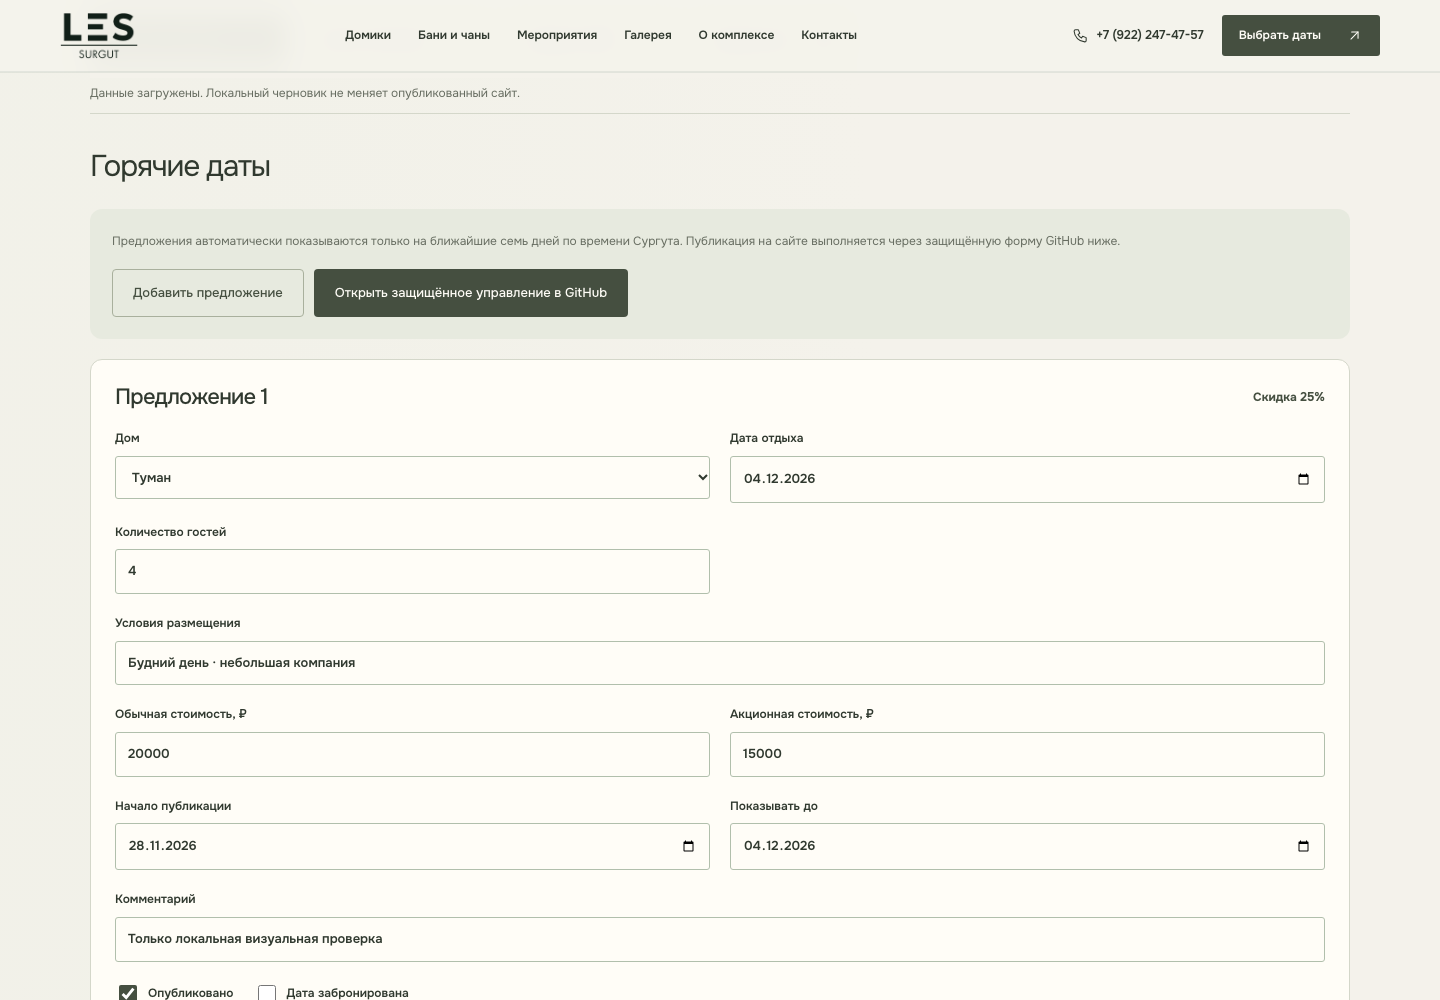
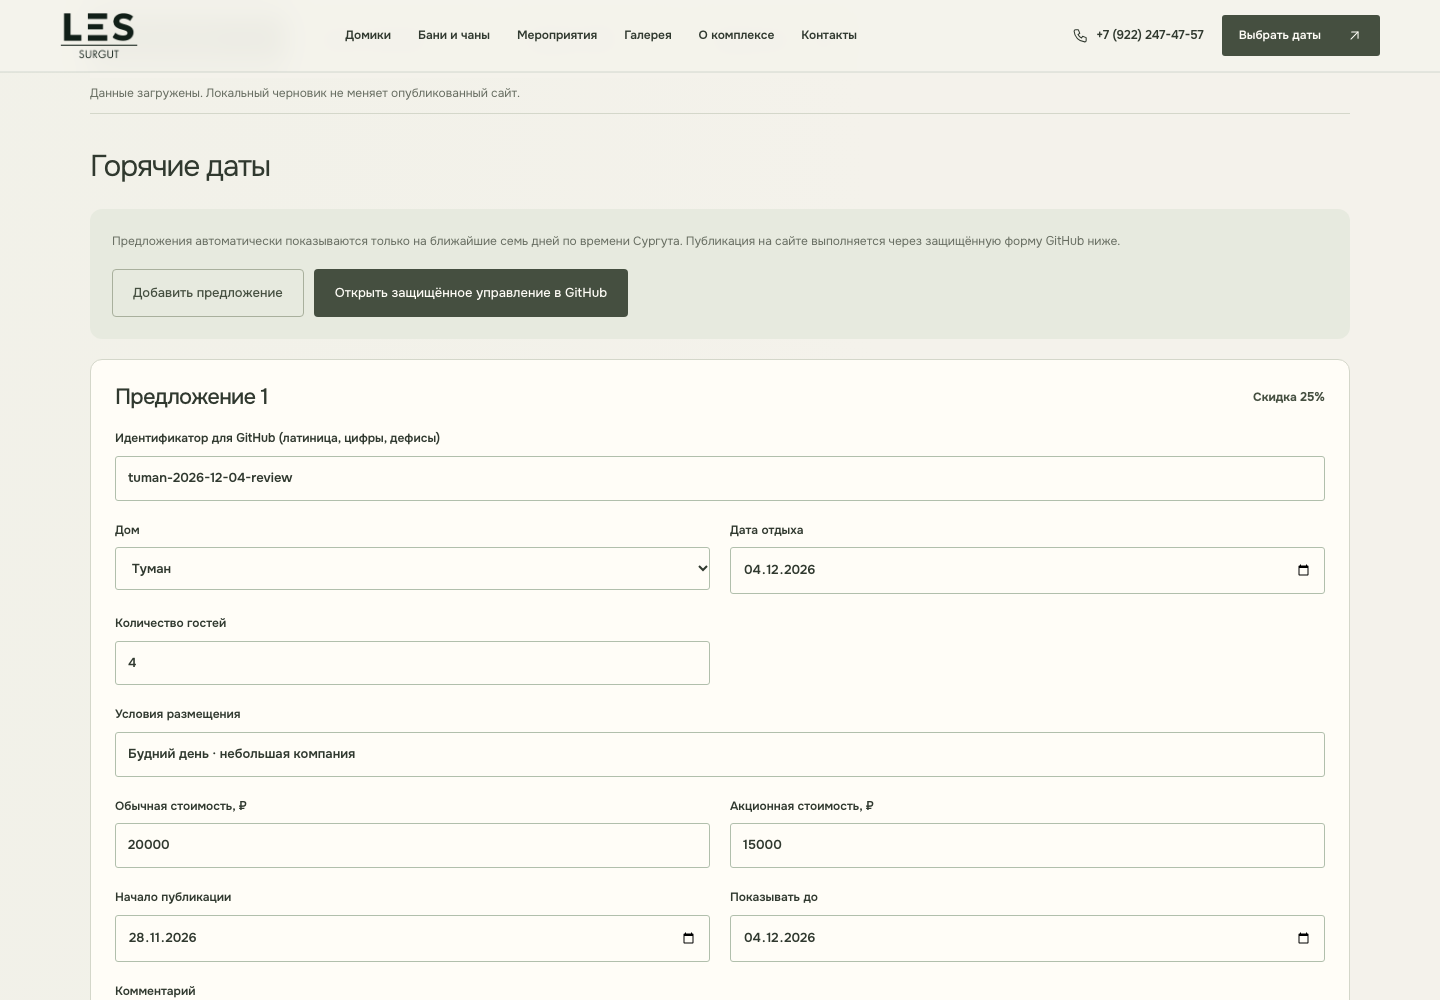
Polish hot dates management review

diff --git a/src/editor.js b/src/editor.js
@@ -34,6 +34,7 @@ function render(){
    const card=make('article',null,'editor-hot-card wide'),heading=make('div',null,'editor-hot-card-heading'),title=make('h3',`Предложение ${index+1}`),discount=make('strong');heading.append(title,discount);card.append(heading);
    const fields=make('div',null,'editor-grid');card.append(fields);
    const input=(labelText,key,type='text',wide=false)=>{const label=make('label',labelText,wide?'wide':'');const control=make('input');control.type=type;control.value=offer[key]??'';control.addEventListener('input',()=>{offer[key]=type==='number'?(control.value===''?null:Number(control.value)):control.value;discount.textContent=hotDiscount(offer)===null?'Проверьте цены':`Скидка ${hotDiscount(offer)}%`;syncJSON()});label.append(control);fields.append(label);return control};
+   input('Идентификатор для GitHub (латиница, цифры, дефисы)','id','text',true);
    const houseLabel=make('label','Дом'),house=make('select');for(const item of data.houses){const option=make('option',item.name);option.value=item.slug;option.selected=item.slug===offer.house;house.append(option)}house.addEventListener('change',()=>{offer.house=house.value;syncJSON()});houseLabel.append(house);fields.append(houseLabel);
    input('Дата отдыха','date','date');input('Количество гостей','guests','number');input('Условия размещения','terms','text',true);input('Обычная стоимость, ₽','regularPrice','number');input('Акционная стоимость, ₽','salePrice','number');input('Начало публикации','publishFrom','date');input('Показывать до','expiresAt','date');input('Комментарий','comment','text',true);
    const flags=make('div',null,'editor-hot-flags wide');for(const [key,labelText] of [['active','Опубликовано'],['booked','Дата забронирована']]){const label=make('label'),control=make('input');control.type='checkbox';control.checked=offer[key]===true;control.addEventListener('change',()=>{offer[key]=control.checked;syncJSON()});label.append(control,document.createTextNode(labelText));flags.append(label)}fields.append(flags);

diff --git a/docs/final-launch-report-2026-11-28.md b/docs/final-launch-report-2026-11-28.md
@@ -93,11 +93,11 @@ Chrome проверен программно на ширинах 320, 375, 390, 
 
 Локальная проверка Chrome при ширине 1440 px:
 
-- DOMContentLoaded: 274 мс;
-- load: 368 мс;
-- 51 сетевой запрос;
+- DOMContentLoaded: 116 мс;
+- load: 292 мс;
+- 66 сетевых запросов;
 - 678 КБ передано до завершения начальной загрузки;
-- запрошено 6 полноразмерных и 31 адаптивное WebP, остальные галерейные изображения остаются отложенными.
+- запрошено 6 полноразмерных и 46 адаптивных WebP, остальные галерейные изображения остаются отложенными.
 
 101 полноразмерный WebP четырёх фотосессий занимает 85 162 162 байта, 101 адаптивный — 10 233 758 байт; максимальный полный файл — 1 642 862 байта. Все галерейные изображения за пределами первого экрана имеют lazy loading, обложки используют `srcset`/`sizes`, главный визуальный кадр загружается приоритетно. Lighthouse не запускался: он не установлен в проекте, а новые зависимости без согласования не добавлялись.
 
